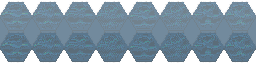
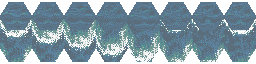
made better sprites for hexes and staggered water

diff --git a/RetributionOnline/public/javascripts/retribution_online/graphics/spriteDrawer.js b/RetributionOnline/public/javascripts/retribution_online/graphics/spriteDrawer.js
@@ -21,7 +21,7 @@ function drawHex(drawX, drawY, hexMaterial) {
             ctx.drawImage(stoneHex, 0, 0, 32, 64, drawX, drawY , drawScale, drawScale * 2);
             break;
         case 'water':
-        drawSprite(waterHexSprite, drawX, drawY + drawScale/10, 0, frameCounter, 1, 8, 1, 2);
+        drawSprite(waterHexSprite, drawX, drawY + drawScale/10, 0, frameCounter + Math.floor((Math.random() * 2) + 1), 1, 8, 1, 2);
     }
 }
 

diff --git a/RetributionOnline/public/javascripts/retribution_online/graphics/fpsHandler.js b/RetributionOnline/public/javascripts/retribution_online/graphics/fpsHandler.js
@@ -1,6 +1,6 @@
 // frameHandler.js contains variables, functions,
 var frameDelta;       //variable for holding the passing of time
-var frameRate = 60;  //fps
+var frameRate = 1000/10;  //fps
 var lastFrame = 0;    //the last time that the screen was incremented
 var frameCounter = 0; // this is used throughout the whole program
 
